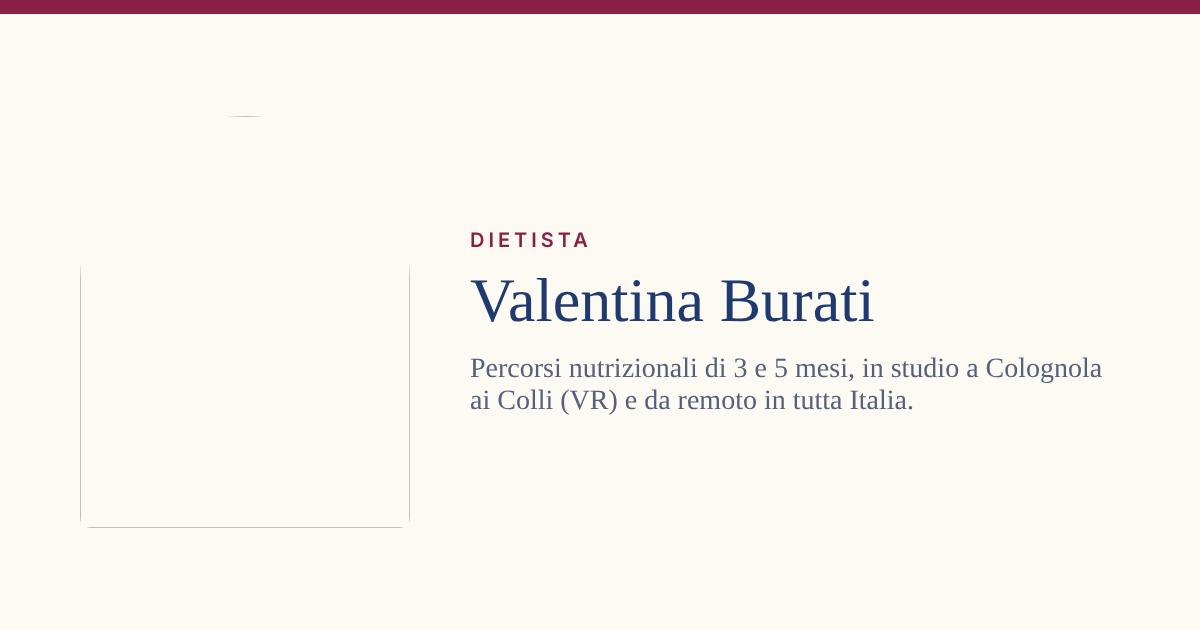
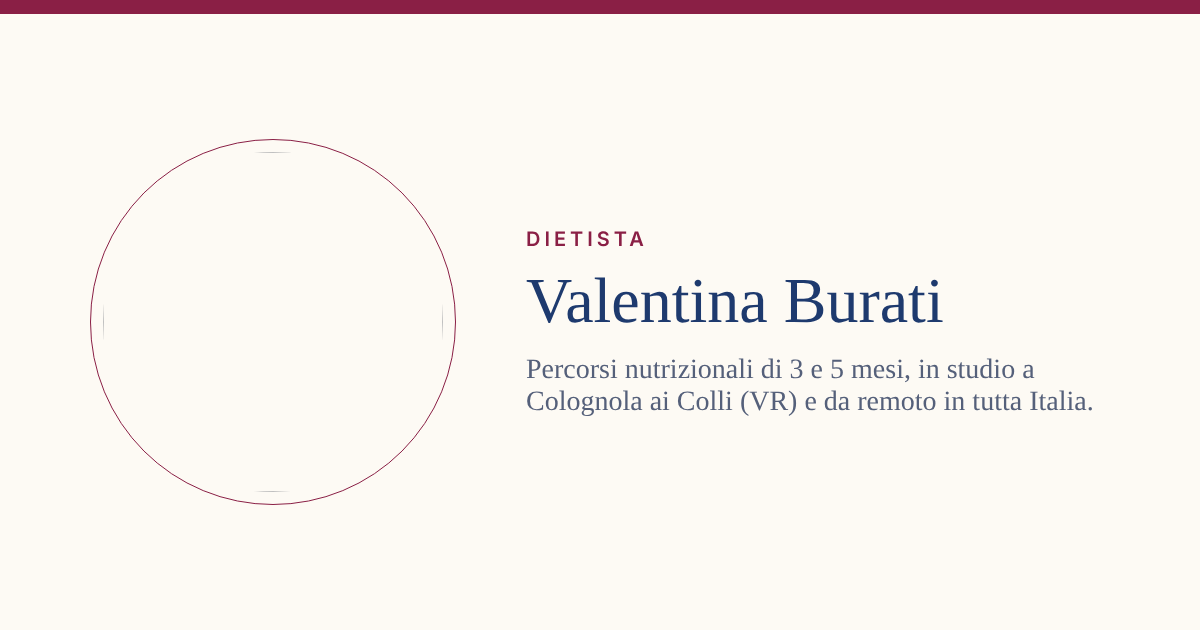
Ritratto circolare più piccolo con doppia cornice, link per saltare al contenuto, pagina 404, icona nelle pagine documento
Claude-Session: https://claude.ai/code/session_01Pavcpb8tGnTzKW3WLVSS5o

diff --git a/index.html b/index.html
@@ -55,6 +55,8 @@ section{padding-block:clamp(56px,9vw,104px)}
 @media (prefers-color-scheme:dark){:root:not([data-theme="light"]) .btn:not(.quiet){color:#2C0E19}}
 :root[data-theme="dark"] .btn:not(.quiet){color:#2C0E19}
 [hidden]{display:none!important}
+.skip{position:absolute;left:12px;top:-60px;z-index:10;background:var(--blu);color:#fff;padding:.5rem .9rem;border-radius:6px}
+.skip:focus{top:12px}
 
 /* testata */
 header.top{position:sticky;top:0;z-index:5;background:color-mix(in srgb,var(--paper) 94%,transparent);backdrop-filter:blur(8px);border-bottom:1px solid var(--line)}
@@ -70,11 +72,13 @@ nav.menu a:hover{color:var(--radicchio);text-decoration:underline}
 .hero .lead{font-size:1.18rem;color:var(--muted);max-width:33em;margin-top:22px}
 .hero .ctas{display:flex;gap:12px;flex-wrap:wrap;margin-top:30px}
 .hero .note{margin-top:14px}
-.portrait{margin:0;justify-self:center;width:min(100%,400px);position:relative}
-.portrait::before{content:"";position:absolute;inset:16px -16px -16px 16px;border:1.5px solid var(--radicchio);border-radius:200px 200px 10px 10px}
-.portrait img{position:relative;display:block;width:100%;height:auto;border-radius:200px 200px 10px 10px;background:var(--alt)}
-@media (max-width:900px){.portrait{order:-1;width:min(62%,280px);margin-top:28px}}
-.creds{list-style:none;margin:clamp(40px,6vw,64px) 0 0;padding:22px 0;border-top:1px solid var(--line);border-bottom:1px solid var(--line);display:grid;grid-template-columns:repeat(4,minmax(0,1fr));gap:18px 28px}
+.portrait{margin:0;justify-self:center;width:min(100%,300px);position:relative;padding:14px}
+.portrait::before{content:"";position:absolute;inset:0;border:1px solid var(--radicchio);border-radius:50%}
+.portrait::after{content:"";position:absolute;inset:7px;border:1px solid color-mix(in srgb,var(--blu) 35%,transparent);border-radius:50%;pointer-events:none}
+.portrait img{position:relative;display:block;width:100%;height:auto;aspect-ratio:1;object-fit:cover;border-radius:50%;background:var(--alt);filter:saturate(.92) contrast(1.02)}
+.portrait figcaption{text-align:center;margin-top:14px;font-size:.85rem;font-style:italic;color:var(--muted)}
+@media (max-width:900px){.portrait{order:-1;width:min(60%,220px);margin-top:28px;padding:10px}}
+.creds{list-style:none;margin:clamp(28px,4vw,48px) 0 0;padding:22px 0;border-top:1px solid var(--line);border-bottom:1px solid var(--line);display:grid;grid-template-columns:repeat(4,minmax(0,1fr));gap:18px 28px}
 .creds li{font-size:.9rem;color:var(--muted);line-height:1.45}
 .creds b{display:block;color:var(--blu);font-weight:600;font-size:1rem;margin-bottom:2px}
 .alt{background:var(--alt)}
@@ -187,6 +191,7 @@ footer ul{list-style:none;margin:10px 0 0;padding:0;display:flex;flex-wrap:wrap;
 </style>
 </head>
 <body>
+<a class="skip" href="#inizio">Vai al contenuto</a>
 
 <header class="top"><div class="wrap">
   <a class="brand" href="#inizio">Valentina Burati<span>DIETISTA</span></a>
@@ -201,7 +206,7 @@ footer ul{list-style:none;margin:10px 0 0;padding:0;display:flex;flex-wrap:wrap;
     <div class="ctas"><a class="btn" href="#prenota">Prenota la chiamata conoscitiva</a><a class="btn quiet" href="#percorsi">Vedi i percorsi</a></div>
     <p class="note small muted">La chiamata conoscitiva dura 15 minuti, è inclusa e senza impegno.</p>
   </div>
-  <figure class="portrait"><img src="img/valentina.jpg" srcset="img/valentina-small.jpg 360w, img/valentina.jpg 720w" sizes="(max-width:640px) 70vw, 400px" alt="Ritratto di Valentina Burati, dietista" width="720" height="900"></figure>
+  <figure class="portrait"><img src="img/valentina.jpg" srcset="img/valentina-small.jpg 300w, img/valentina.jpg 560w" sizes="(max-width:900px) 220px, 300px" alt="Ritratto di Valentina Burati, dietista" width="560" height="560" fetchpriority="high"></figure>
 </div></section>
 
 <div class="wrap"><ul class="creds" aria-label="In breve">

diff --git a/404.html b/404.html
@@ -1,0 +1,16 @@
+<!doctype html>
+<html lang="it">
+<head>
+<meta charset="utf-8">
+<meta name="viewport" content="width=device-width, initial-scale=1">
+<title>Pagina non trovata</title>
+<link rel="stylesheet" href="/dietista/documenti.css">
+<link rel="icon" href="/dietista/img/favicon.svg" type="image/svg+xml">
+<meta name="robots" content="noindex">
+</head>
+<body><main class="doc">
+<h1>Questa pagina non esiste</h1>
+<p class="muted">Il link potrebbe essere stato scritto male o la pagina è stata spostata.</p>
+<p><a href="/dietista/">Torna alla pagina principale</a> oppure scrivi a <a href="mailto:dott.ssavb@gmail.com">dott.ssavb@gmail.com</a>.</p>
+</main></body>
+</html>

diff --git a/condizioni.html b/condizioni.html
@@ -6,6 +6,7 @@
 <title>Condizioni del percorso</title>
 <meta name="description" content="Preventivo e condizioni dei percorsi nutrizionali di Valentina Burati, dietista: prezzi, pagamento, spostamenti, interruzione e rimborso.">
 <link rel="stylesheet" href="documenti.css">
+<link rel="icon" href="img/favicon.svg" type="image/svg+xml">
 </head>
 <body><main class="doc">
 <a class="back" href="index.html">← Torna al sito</a>

diff --git a/consenso.html b/consenso.html
@@ -6,6 +6,7 @@
 <title>Consenso informato</title>
 <meta name="description" content="Modulo di consenso informato alla prestazione dietetica, alla televisita e alle comunicazioni, di Valentina Burati, dietista.">
 <link rel="stylesheet" href="documenti.css">
+<link rel="icon" href="img/favicon.svg" type="image/svg+xml">
 </head>
 <body><main class="doc">
 <a class="back" href="index.html">← Torna al sito</a>

diff --git a/privacy.html b/privacy.html
@@ -6,6 +6,7 @@
 <title>Privacy e cookie</title>
 <meta name="description" content="Informativa sul trattamento dei dati personali e sui cookie del sito di Valentina Burati, dietista.">
 <link rel="stylesheet" href="documenti.css">
+<link rel="icon" href="img/favicon.svg" type="image/svg+xml">
 </head>
 <body><main class="doc">
 <a class="back" href="index.html">← Torna al sito</a>
